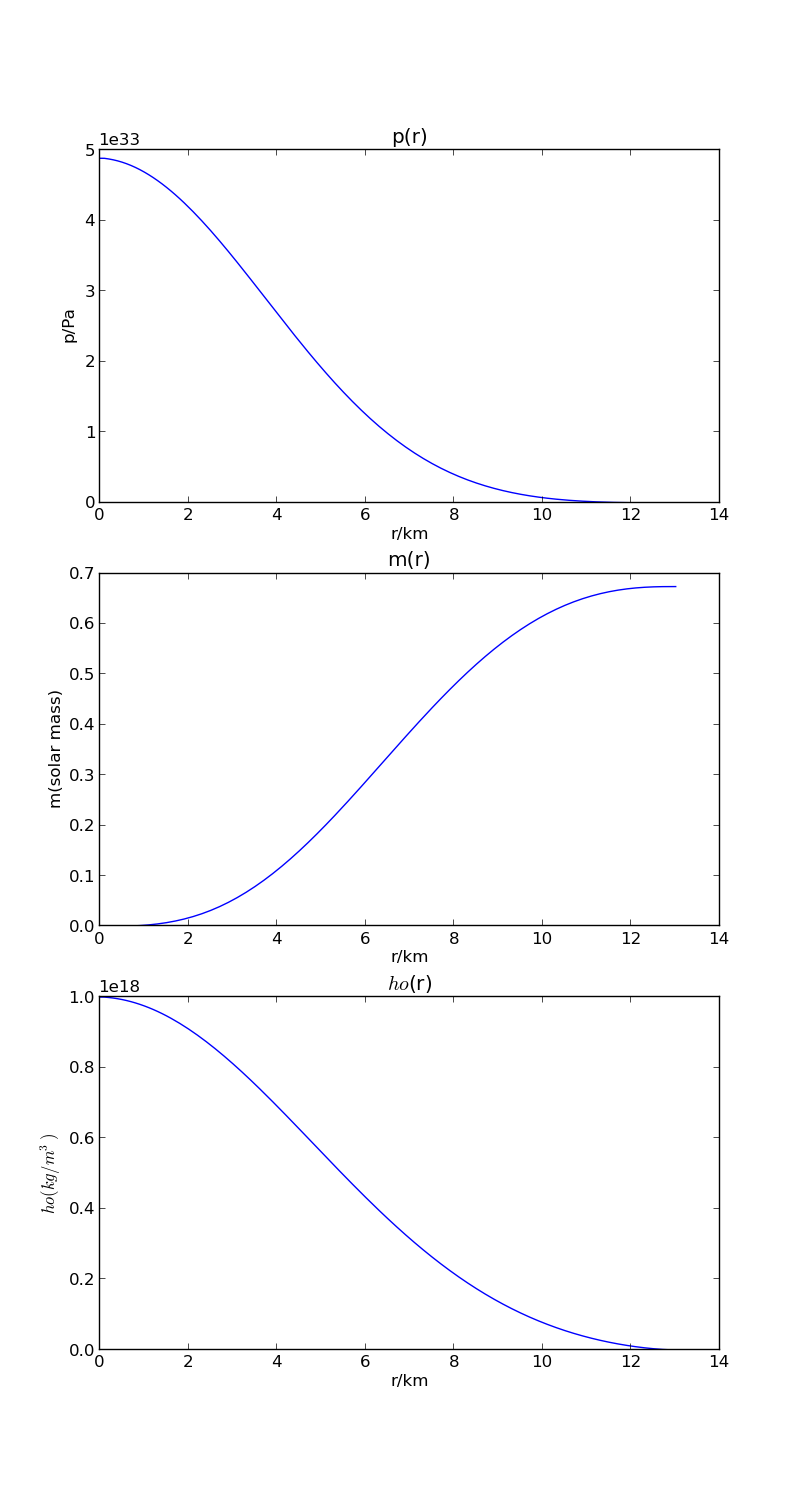
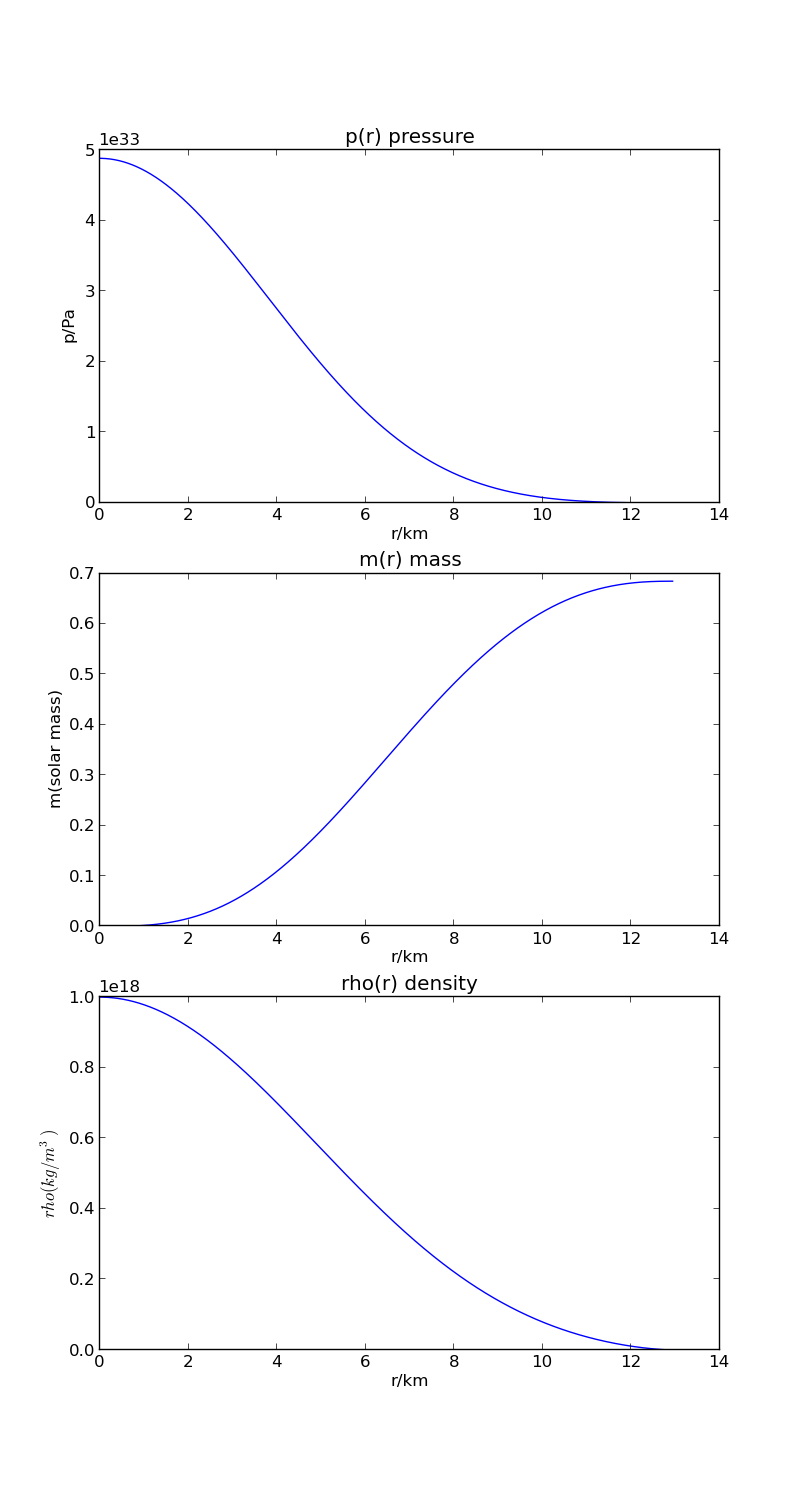
Add files via upload

diff --git a/NeutronStar.py b/NeutronStar.py
@@ -58,7 +58,7 @@ def NS(rho0):
     #f.close()
     return [R,M,r,p,m,rho]
 
-'''
+#
 NS1=NS(1e18)
 r=NS1[2]
 p=NS1[3]
@@ -70,13 +70,11 @@ plot(r,p)
 title('p(r) pressure')
 xlabel('r/km')
 ylabel('p/Pa')
-#text(6e3,0.8e-15,'nonrelativistic case')
 subplot(312)
 plot(r,m)
 title('m(r) mass')
 xlabel('r/km')
 ylabel('m(solar mass)')
-#text(2e3,0.3,'nonrelativistic case')
 subplot(313)
 plot(r,rho)
 title('rho(r) density')
@@ -84,7 +82,7 @@ xlabel('r/km')
 ylabel('$rho(kg/m^3)$')
 savefig('Neutron star .png')
 show()
-'''
+
 #R-M diagram
 RNS=[]
 MNS=[]
